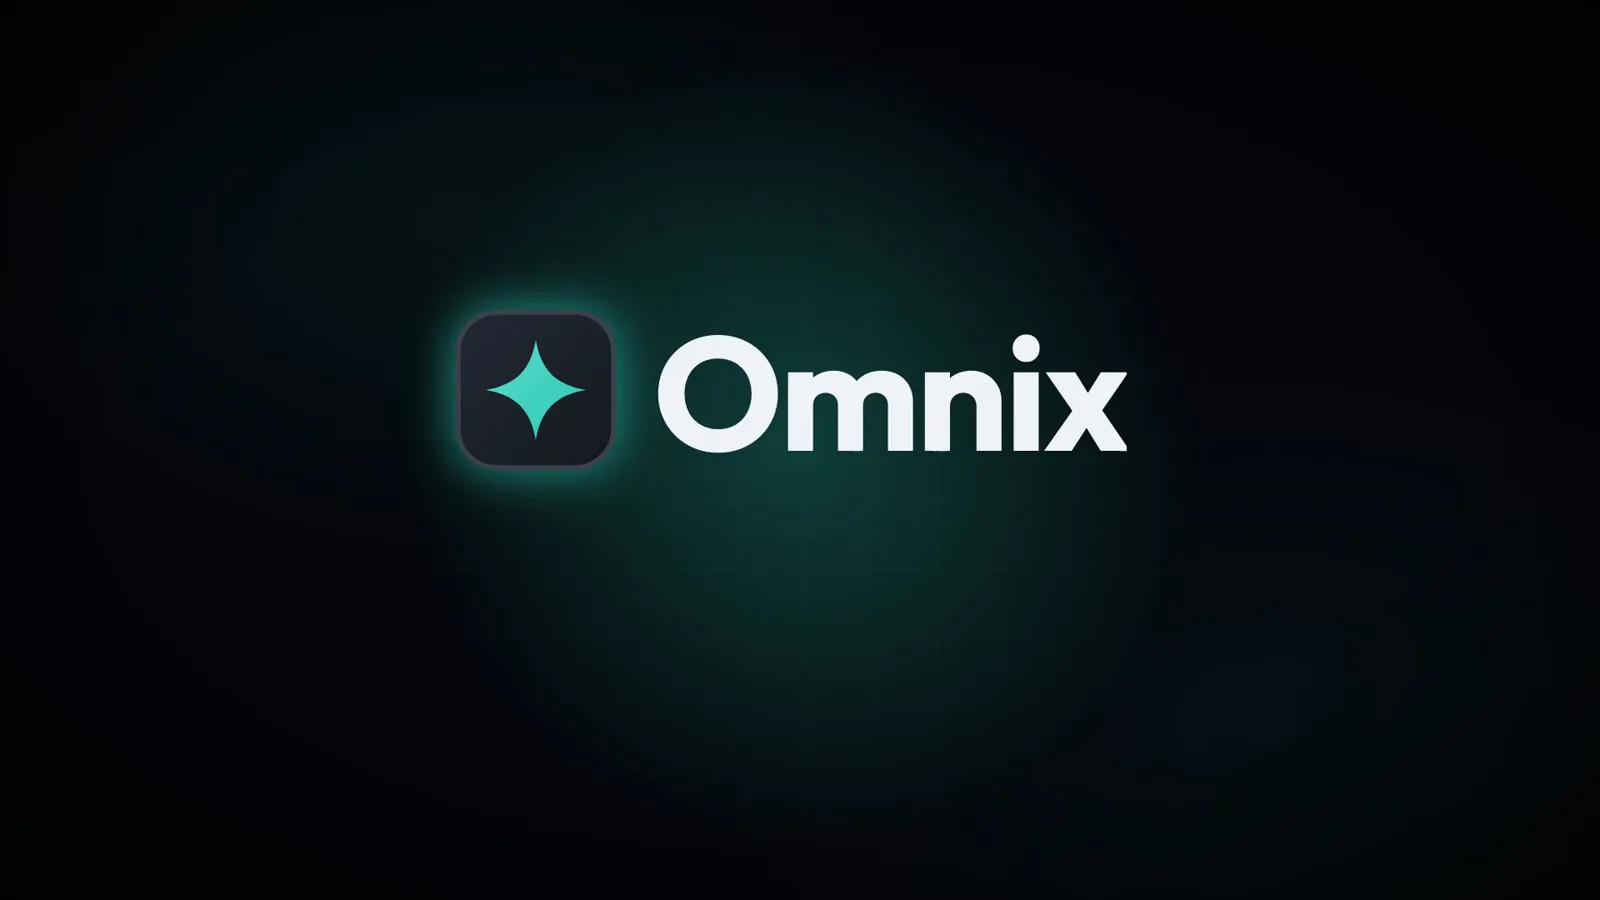
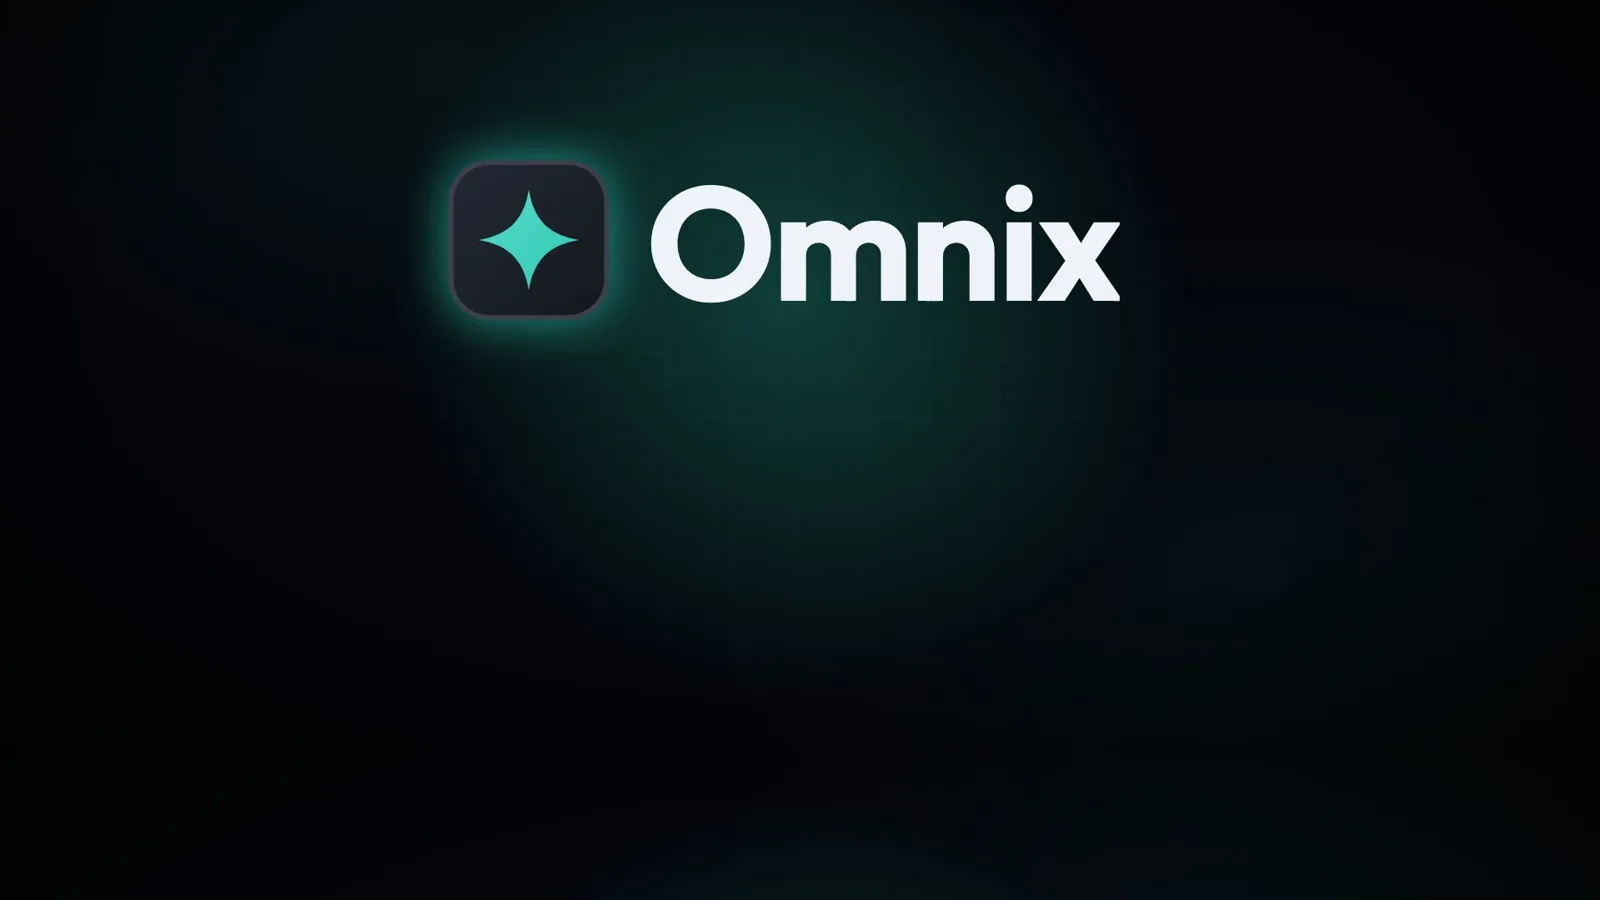
fix: кнопка «плей» крупнее (76px, на телефоне 60px), треугольник ровно по центру; на обложке Omnix логотип поднят — «плей» не наезжает на надпись

Changed region(s): [[0.25, 0.1244, 0.7188, 0.56], [0.4375, 0.0622, 0.5, 0.0933]]

diff --git a/index.html b/index.html
@@ -297,8 +297,9 @@
   .work-play,.work-full{position:absolute; z-index:2; display:flex; align-items:center; justify-content:center; cursor:pointer; color:#fff;
     background:rgba(5,6,10,0.5); border:1px solid rgba(255,255,255,0.18); backdrop-filter:blur(10px); -webkit-backdrop-filter:blur(10px);
     transition:opacity .25s cubic-bezier(.2,.8,.2,1), transform .25s cubic-bezier(.2,.8,.2,1), background .2s, border-color .2s;}
-  .work-play{left:50%; top:50%; width:64px; height:64px; border-radius:50%; transform:translate(-50%,-50%);}
-  .work-play svg{margin-left:3px;}
+  .work-play{left:50%; top:50%; width:76px; height:76px; border-radius:50%; transform:translate(-50%,-50%);}
+  .work-play svg{width:34px; height:34px; margin-left:1px;}   /* центр тяжести треугольника в иконке уже по центру — сдвиг только оптический, 1px */
+  @media (max-width:560px){ .work-play{width:60px; height:60px;} .work-play svg{width:28px; height:28px;} }
   .work-media.playing .work-play{opacity:0; transform:translate(-50%,-50%) scale(.85); pointer-events:none;}
   .work-full{right:12px; top:12px; width:36px; height:36px; border-radius:10px; opacity:.0;}
   /* кнопка звука — только у роликов с музыкой (data-sound): ролик запускается по «плей» сразу со звуком,

diff --git a/en/index.html b/en/index.html
@@ -299,8 +299,9 @@
   .work-play,.work-full{position:absolute; z-index:2; display:flex; align-items:center; justify-content:center; cursor:pointer; color:#fff;
     background:rgba(5,6,10,0.5); border:1px solid rgba(255,255,255,0.18); backdrop-filter:blur(10px); -webkit-backdrop-filter:blur(10px);
     transition:opacity .25s cubic-bezier(.2,.8,.2,1), transform .25s cubic-bezier(.2,.8,.2,1), background .2s, border-color .2s;}
-  .work-play{left:50%; top:50%; width:64px; height:64px; border-radius:50%; transform:translate(-50%,-50%);}
-  .work-play svg{margin-left:3px;}
+  .work-play{left:50%; top:50%; width:76px; height:76px; border-radius:50%; transform:translate(-50%,-50%);}
+  .work-play svg{width:34px; height:34px; margin-left:1px;}   /* центр тяжести треугольника в иконке уже по центру — сдвиг только оптический, 1px */
+  @media (max-width:560px){ .work-play{width:60px; height:60px;} .work-play svg{width:28px; height:28px;} }
   .work-media.playing .work-play{opacity:0; transform:translate(-50%,-50%) scale(.85); pointer-events:none;}
   .work-full{right:12px; top:12px; width:36px; height:36px; border-radius:10px; opacity:.0;}
   .work-media:hover .work-full,.work-full:focus-visible{opacity:1;}
